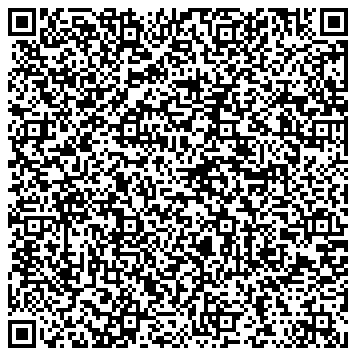
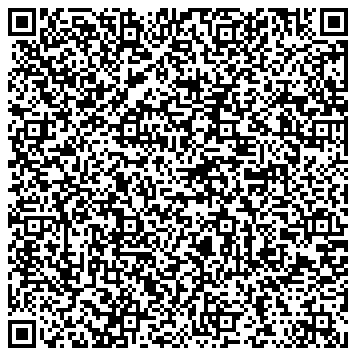
feat(payment): update code payment

diff --git a/qrcode.html b/qrcode.html
@@ -4,7 +4,7 @@
       <head><title>QR Code</title></head>
       <body>
         <h1>Ticket QR Code</h1>
[2 lines of base64/hex data omitted]
         <pre>
         Ticket ID: 101
         Customer ID: 1

diff --git a/src/main.ts b/src/main.ts
@@ -3,7 +3,6 @@ import { Movie } from "./Movie/Movie";
 import { Customer } from "./Users/Customer";
 import { Staff } from "./Users/Staff";
 import { Hall } from "./Hall/Hall";
-import { Booking } from "./Booking/Booking";
 import { Screen } from "./Screen/Screen";
 import { Feedback } from "./Feedback/Feedback";
 import { Seats } from "./Seats/Seats";
@@ -11,9 +10,11 @@ import { ZoneType } from "./Zones/Zones";
 import { Showtime } from "./Showtime/Showtime"
 import { QRCodeManager, ReceiveTicket } from "./Booking/ReceiveTicket";
 import { CustomerTicket } from "./Booking/CustomerTicket";
+import { Booking } from "./Booking/Booking";
+import { Payment } from "./Payment/Payment"
 
 
-// === Your existing tests and usage ===
+// === Login & Logout ===
 
 // TEST CUSTOMER
 const customer1 = new Customer("Alice", 1, "alice@mail.com", "Female", "pass123");
@@ -41,28 +42,25 @@ const zone2 = new ZoneType(1, "A06", "VIP");
 zone2.setZoneType("STANDARD");
 console.log(zone2.chooseZone());
 
+
+
 // User story 1: Browse movies and showtimes
 
-// Create halls
 const hallA = new Hall(1, "Hall A");
 const hallB = new Hall(2, "Hall B");
 
-// Create movies
 const movie1 = new Movie(1, "Action Movie", "Action", 120);
 const movie2 = new Movie(2, "Comedy Show", "Comedy", 90);
 const movie3 = new Movie(3, "កន្ទួងខៀវ", "Horro", 2);
 
-// Create showtimes with Movie and Hall objects
 const showtime1 = new Showtime(1, movie1, hallA, "2025-06-03", "14:00", "16:00");
 const showtime2 = new Showtime(2, movie2, hallA, "2025-06-03", "16:30", "18:00");
 const showtime3 = new Showtime(3, movie3, hallB, "2024-12-20", "12:00", "14:00");
 
-// Add showtimes to movies
 movie1.addShowtime(showtime1);
 movie2.addShowtime(showtime2);
 movie3.addShowtime(showtime3);
 
-// Access and print showtimes
 const showtimes = movie1.getShowtimes();
 if (showtimes.length > 0) {
   console.log("Showtime Details:", showtimes[0].getDetails());
@@ -73,6 +71,9 @@ console.log(" - Showtimes for Movie 1:", movie1.getShowtimes()[0].getDetails());
 
 console.log(" - Movie 3:", movie3.getDetails());
 console.log(" - Showtimes for Movie 3:", movie3.getShowtimes()[0].getDetails());
+
+
+
 
 // User story 2: View seat availability and choose seats
 
@@ -96,20 +97,39 @@ seat1.getSeatDetails();
 seat2.getSeatDetails();
 seat3.getSeatDetails();
 
-// === Generate QR code from a sample CustomerTicket ===
 
+// 3.	As a user, I want to pay for my booking and receive a digital ticket.
+const booking = {
+  getBookingID: () => 123,
+  getCustomerID: () => 456,
+  getTotalPrice: () => "$15.00",  // returns string with dollar sign
+} as unknown as Booking; // Type cast for test simplicity
+
+// Create Payment instance
+const payment = new Payment(1001, booking);
+
+// Before processing payment
+console.log("Payment status before processing:", payment.getPaymentStatus());
+
+// Process payment
+const success = payment.processPayment();
+
+console.log("Payment processed successfully:", success);
+console.log("Payment status after processing:", payment.getPaymentStatus());
+console.log("Payment details:\n", payment.getPaymentDetails());
+console.log("Total price : ", booking.getTotalPrice());
+
+// 5.	As a cinema staff member, I want to check the QR code for a valid ticket.
 const customerTicket = new CustomerTicket(
   101,
   1,
   12,
-  movie1.getDetails().split("\n")[0], // Just grabbing movie name from getDetails() for example
+  movie1.getDetails().split("\n")[0],
   hallA.getHallName(),
   movie1.getDuration(),
   new Date("2025-06-03T14:00:00"),
   15.0
-);
-
-
+);  
 
 async function testQRCode() {
   const qrCodeManager = new QRCodeManager();
@@ -131,13 +151,17 @@ async function testQRCode() {
         <h1>Ticket QR Code</h1>
         <img src="${ticket.getQrCode()}" />
         <pre>${ticket.getTicket().getTicketDetails()}</pre>
-      </body>
-    </html>
-  `;
+      </body>  
+    </html>  
+  `;  
 
   await writeFile("qrcode.html", htmlContent);
 
   console.log("QR code image and HTML file created.");
-}
+}  
 
 testQRCode().catch(console.error);
+
+
+
+

diff --git a/src/Payment/Payment.ts b/src/Payment/Payment.ts
@@ -1,34 +1,41 @@
+import { Booking } from "../Booking/Booking";
+
 export class Payment {
-    private paymentID: number;
-    private bookingID: number;
-    private amount: number;
-    private ticketPrice: number;
-    private paymentDate: string;
+  private paymentID: number;
+  private booking: Booking;
+  private amount: number;
+  private paymentDate: string = "";
 
-    constructor(paymentID: number, bookingID: number, amount: number, ticketPrice: number, paymentDate: string) {
-        this.paymentID = paymentID;
-        this.bookingID = bookingID;
-        this.amount = amount;
-        this.ticketPrice = ticketPrice;
-        this.paymentDate = paymentDate;
-    }
+  constructor(paymentID: number, booking: Booking) {
+    this.paymentID = paymentID;
+    this.booking = booking;
+    this.amount = this.booking.getTotalPrice();
+    
+  }
 
-    public processPayment(): boolean {
-        if (this.amount >= this.ticketPrice) {
-            // Payment is successful
-            this.paymentDate = new Date().toISOString(); // set current date
-            return true;
-        } else {
-            // Payment failed due to insufficient amount
-            return false;
-        }
-    }
 
-    public getPaymentStatus(): string {
-        if (this.paymentDate && this.paymentDate !== "") {
-            return "Paid";
-        } else {
-            return "Pending";
-        }
+  public processPayment(): boolean {
+    if (this.amount >= this.booking.getTotalPrice()) {
+      this.paymentDate = new Date().toISOString();
+      return true;
+    } else {
+      return false;
     }
+  }
+
+  public getPaymentStatus(): string {
+    return this.paymentDate !== "" ? "Paid" : "Pending";
+    
+  }
+
+  public getPaymentDetails(): string {
+    return `
+      Payment ID: ${this.paymentID}
+      Booking ID: ${this.booking.getBookingID()}
+      Customer ID: ${this.booking.getCustomerID()}
+   
+      Status: ${this.getPaymentStatus()}
+      Date: ${this.paymentDate || "N/A"}
+    `;
+  }
 }

diff --git a/src/Booking/Booking.ts b/src/Booking/Booking.ts
@@ -46,4 +46,18 @@ export class Booking {
     cancelBooking(): void {
         console.log(`Booking ${this.bookingID} cancelled. Refund: $${this.totalPrice.toFixed(2)}`);
     }
+
+    public getBookingID(): number {
+    return this.bookingID;
+  }
+
+  public getCustomerID(): number {
+    return this.customer.getCustomerID(); // Calls method from Customer
+}
+
+
+  public getTotalPrice(): number {
+    return this.totalPrice;
+}
+
 };
